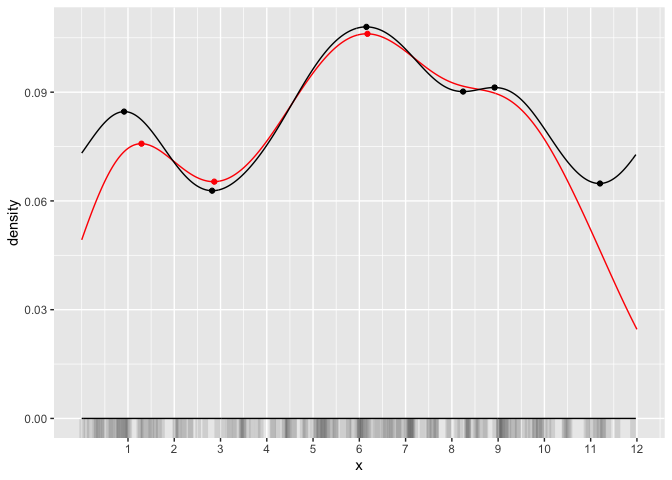
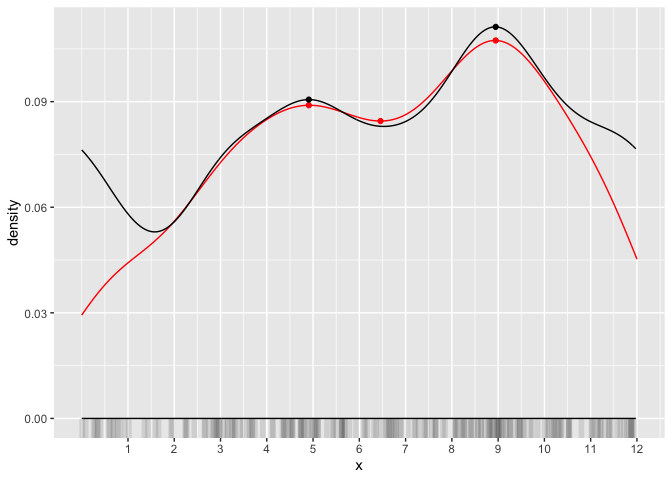
Update examples to include the recent changes.

diff --git a/man/Basic_Circular_Density_Plots.md b/man/Basic_Circular_Density_Plots.md
@@ -131,6 +131,7 @@ converted back before output. This transformation is controlled by the
 parameter `period`. Thus, the output seamlessly integrates in `ggplot2`
 and can be scaled like other polar data.
 
+    set.seed(19200725)
     df <- tibble(
       x = c(rnorm(160, pi, 2), rnorm(40, 1.5*pi, 1)),
     ) %>%
@@ -150,7 +151,7 @@ and can be scaled like other polar data.
         geom_density(color = "red") +
         geom_mode_point(color = "red", mode = "both") +
         geom_density_circular(period = 12, color = "black") +
-        geom_mode_point(stat = "mode_circular", period = 12, mode = "both", color = "black") +
+        geom_mode_circular(period = 12, mode = "both", color = "black") +
         scale_x_continuous(
           limits = c(0, 12),
           breaks = 1:12
@@ -162,7 +163,8 @@ and can be scaled like other polar data.
       ggplot(., aes(x)) +
         geom_density(color = "red") +
         geom_density_circular(period = 12, color = "black") +
-        geom_point(stat = "mode_circular", mode = "both", period = 12, color = "black") +
+        #geom_mode_point(stat = "mode_circular", mode = "both", period = 12, bw = "log", kernel = "vonmises", color = "blue") + #verbose
+        geom_mode_circular(mode = "both", period = 12, color = "black") +
         geom_segment(aes(xend = x, y = 0.30, yend = 0.275), alpha = 0.1, linewidth = 2) +
         coord_polar(theta = "x", start = 0, direction = 1) +
         scale_x_continuous(
